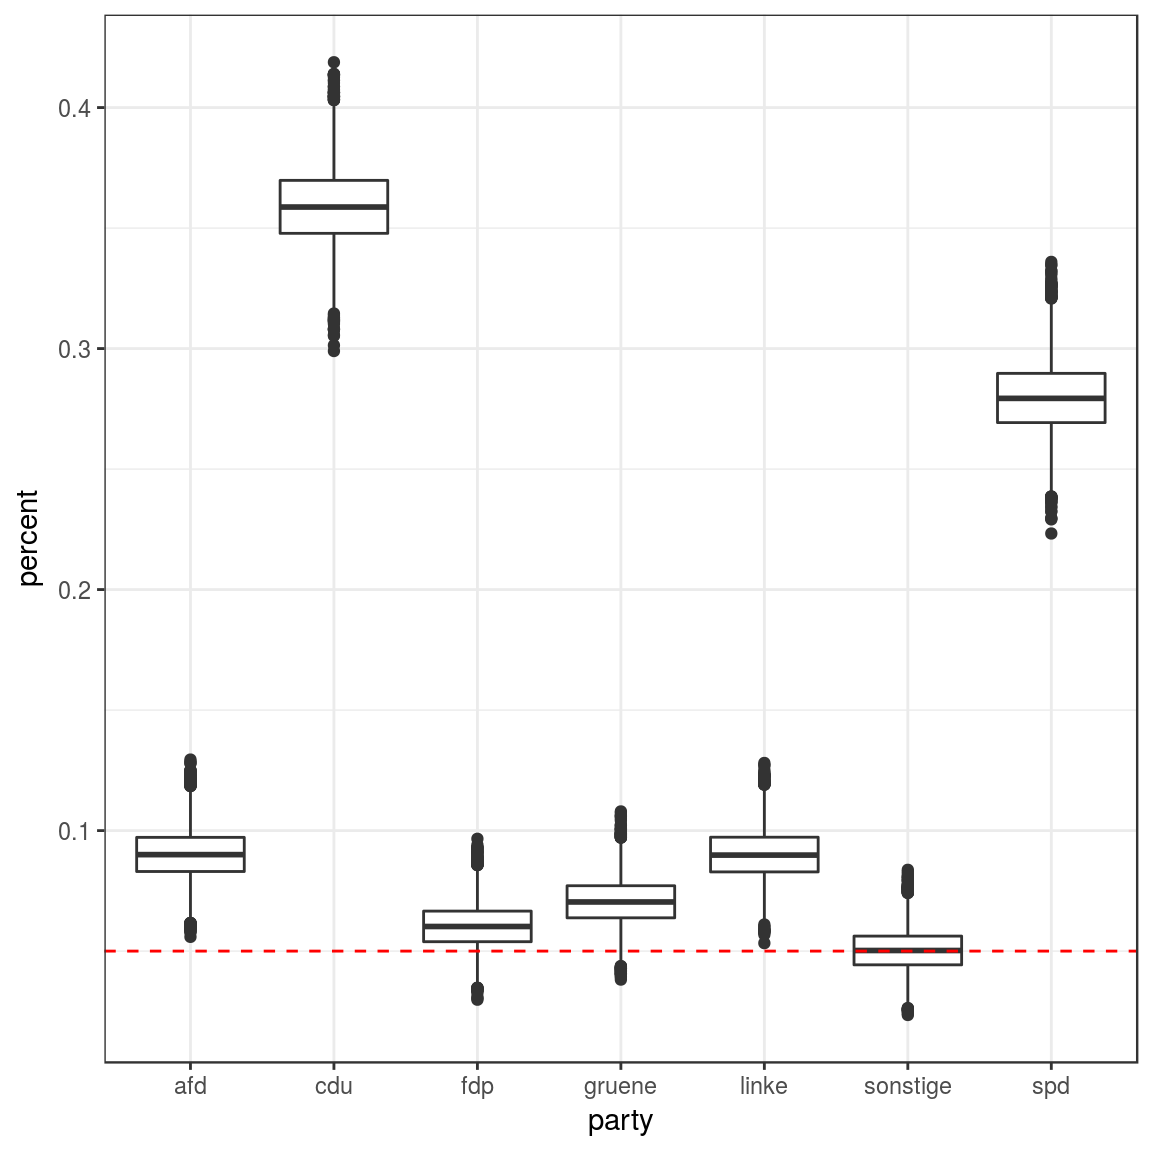
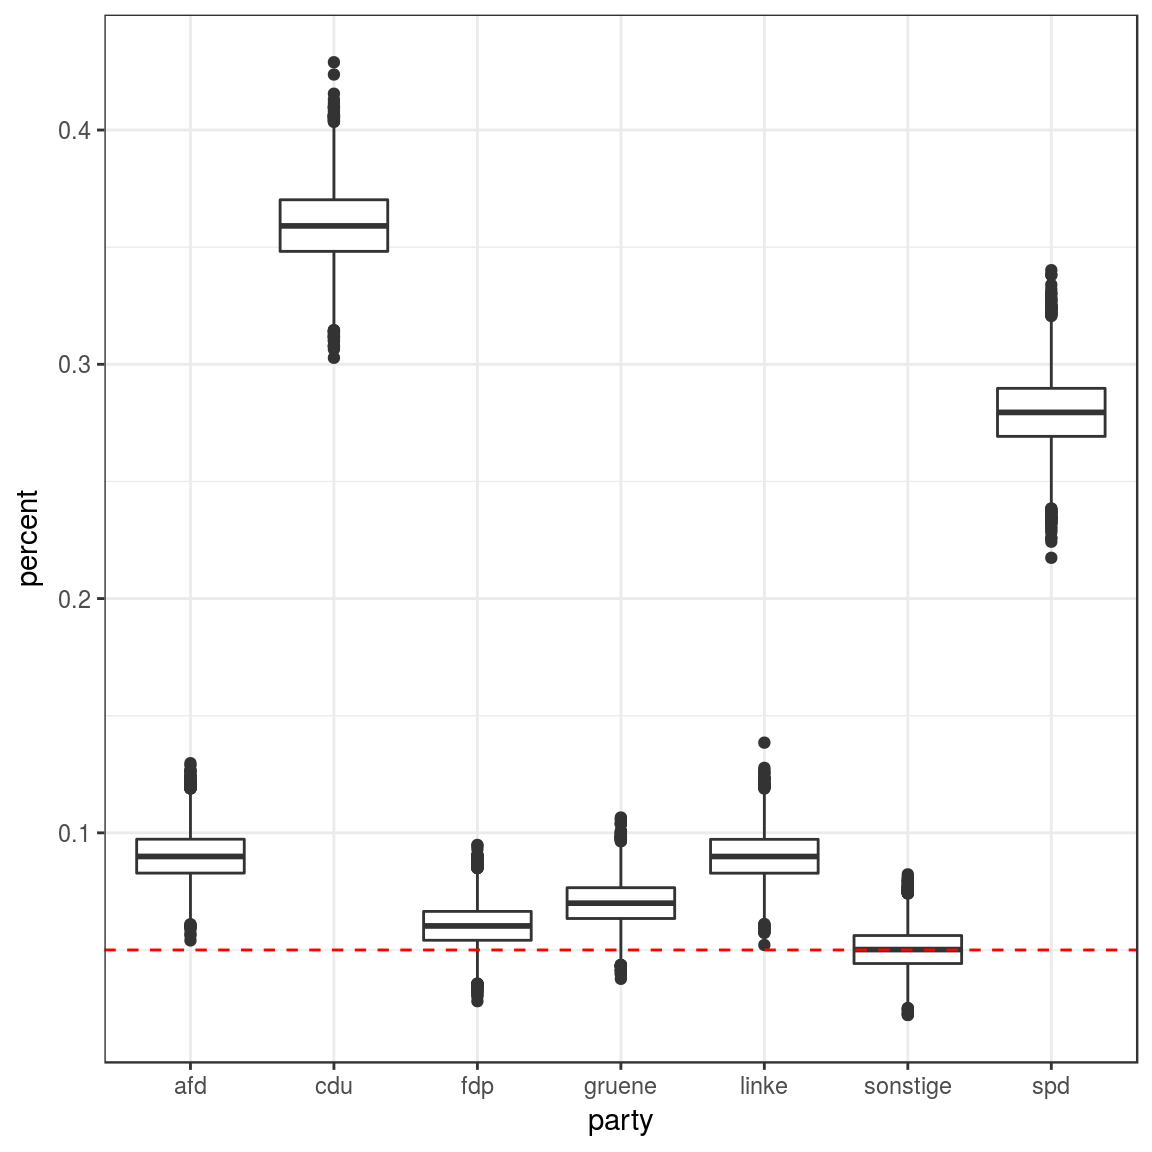
Last updates for pollyvote blog post

diff --git a/docs/articles/KOALA.html b/docs/articles/KOALA.html
@@ -84,7 +84,7 @@
     
     
 <div class="contents">
-<p>Kurz vor der Bundestagswahl am 24. September 2017 steigt wieder das Interesse an Wahlberichterstattung. Einen Beitrag hierzu leisten diverse Meinungsforschungsinstitute, die in regelmäßigen Abständen Umfragewerte zur sogenannten <em>Sonntagsfrage</em> veröffentlicht:</p>
+<p>Kurz vor der Bundestagswahl am 24. September 2017 steigt wieder das Interesse an Wahlberichterstattung. Einen Beitrag hierzu leisten diverse Meinungsforschungsinstitute, die in regelmäßigen Abständen Umfragewerte zur sogenannten <em>Sonntagsfrage</em> veröffentlichen:</p>
 <blockquote>
 <p>“Welche Partei würden sie wählen, wenn Sonntag Bundestagswahl wäre?”</p>
 </blockquote>
@@ -97,7 +97,7 @@
 <p>Schaffen es die kleinen Parteien in den Bundestag?</p>
 </blockquote>
 <p>zu beantworten.</p>
-<p>Meist werden zur Beantwortung dieser Fragen einfach die erzielten Anteile betrachtet oder für Koalitionen von Interesse aufaddiert. Diese einfache Betrachtung ist allerdings oft <strong>irreführend und uninformativ</strong>, wie weiter unten gezeigt wird.</p>
+<p>Oft werden zur Beantwortung dieser Fragen einfach die erzielten Anteile betrachtet oder für Koalitionen von Interesse aufaddiert. Diese einfache Betrachtung ist allerdings oft <strong>irreführend und uninformativ</strong>, wie weiter unten gezeigt wird.</p>
 <p>In Zusammenarbeit mit <a href="http://www.zeit.de/serie/wahlistik">ZEIT ONLINE</a> hat das <a href="http://www.stablab.stat.uni-muenchen.de/index.html">Statistische Beratungslabor (StaBLab) der LMU</a> deshalb 2013 ein Verfahren entwickelt, dass eine <strong>genauere und aussagekräftigere Interpretation von Umfragen</strong> erlaubt.</p>
 <p>Zur Bundestagswahl 2017 laufen unsere Analysen unter dem Namen <a href="http://koala.stat.uni-muenchen.de/">#koala17</a>:</p>
 <ul>
@@ -206,7 +206,7 @@ Sonstige
 <p><strong>Die Stichprobenunsicherheit wird nicht berücksichtigt</strong>:</p>
 <ul>
 <li><p>Selbst wenn eine Umfrage repräsentativ ist, bedeutet es nicht, dass es bei der Wahl nicht zu Abweichungen vom Umfragewert kommen kann.</p></li>
-<li><p>Dies kann für potentielle Koalitionen eine Große Rolle spielen, insbesondere wenn eine oder mehrere Parteien nahe an der 5% Hürde liegen.</p></li>
+<li><p>Dies kann für potentielle Koalitionen eine große Rolle spielen, insbesondere wenn eine oder mehrere Parteien nahe an der 5% Hürde liegen.</p></li>
 </ul>
 </li>
 <li>
@@ -318,8 +318,7 @@ Die Linke
 <a href="#wie-geht-koala-mit-diesen-problemen-um" class="anchor"></a>Wie geht KOALA mit diesen Problemen um?</h2>
 <p>Unser Ansatz beginnt damit, dass wir die Stichprobenunsicherheit sowie die Unterschiede zwischen den Umfragen verschiedener Institute anerkennen. Neben den Umfragen der einzelnen Institute betrachten wir deshalb auch eine sog. <em>gepoolte</em> Stichprobe, die eine Art Durchschnitt über die Umfragen aller Institute innerhalb eines Fensters von 14 Tagen darstellt. Dadurch wird der Einfluss potentieller Ausreißer gemildert und die Stichprobenunsicherheit reduziert.</p>
 <p>Basierend auf dieser <em>gepoolten</em> Umfrage, generieren wir dann viele verschiedene Wahlausgänge, die manchmal mehr, manchmal weniger von den Umfragewerten abweichen. In jedem dieser hypothetischen Wahlausgänge führen wir die Umverteilung der Anteile durch und berechnen für jede Partei die Anzahl Sitze nach der Umverteilung. Gegeben die Sitze kann dann für eine Koalition von Interesse berechnet werden, ob genügend Sitze für eine Mehrheit zu Stande gekommen sind.</p>
-<p>Wiederholt man das Ganze mehrere Tausend mal lässt sich die Wahrscheinlichkeit berechnen, dass für die Koalition von Interesse eine rechnerische Mehrheit zu Stande kommen würde.</p>
-<p>Im vorherigen Beispiel ergeben sich z.B. folgende Wahrscheinlichkeiten:</p>
+<p>Wiederholt man das Ganze mehrere Tausend mal lässt sich die Wahrscheinlichkeit berechnen, dass für die Koalition von Interesse eine rechnerische Mehrheit zu Stande kommen würde. Im vorherigen Beispiel ergeben sich z.B. folgende Wahrscheinlichkeiten:</p>
 <?xml version="1.0" encoding="UTF-8"?><table class="table" style="width: auto !important; margin-left: auto; margin-right: auto;">
 <caption>
 Auf der Forsa Umfrage basierende Koalitionswahrscheinlichkeiten laut unserer KOALA
@@ -338,7 +337,7 @@ Wahrscheinlichkeit
 Union
 </td>
 <td style="text-align:right;">
-0.33 %
+0.37 %
 </td>
 </tr>
 <tr>
@@ -346,7 +345,7 @@ Union
 Union - FDP
 </td>
 <td style="text-align:right;">
-28.05 %
+26.62 %
 </td>
 </tr>
 <tr>
@@ -354,7 +353,7 @@ Union - FDP
 Union - Grüne
 </td>
 <td style="text-align:right;">
-99.64 %
+99.61 %
 </td>
 </tr>
 <tr>
@@ -362,7 +361,7 @@ Union - Grüne
 Union - FDP - Grüne
 </td>
 <td style="text-align:right;">
-0.03 %
+0.02 %
 </td>
 </tr>
 <tr>
@@ -386,7 +385,7 @@ SPD - Die Linke
 SPD - Die Linke - Grüne
 </td>
 <td style="text-align:right;">
-66.21 %
+67.82 %
 </td>
 </tr>
 </tbody>

diff --git a/docs/articles/workflow.html b/docs/articles/workflow.html
@@ -167,16 +167,16 @@ elong %&gt;%<span class="st"> </span><span class="kw"><a href="http://dplyr.tidy
 <pre><code>## # A tibble: 10 x 7
 ##          cdu       spd     gruene        fdp      linke        afd
 ##        &lt;dbl&gt;     &lt;dbl&gt;      &lt;dbl&gt;      &lt;dbl&gt;      &lt;dbl&gt;      &lt;dbl&gt;
-##  1 0.3736780 0.2369959 0.08881941 0.08391430 0.08584738 0.09054215
-##  2 0.3911421 0.2371631 0.07354582 0.08035398 0.09187578 0.08995627
-##  3 0.3785313 0.2445499 0.08610046 0.07830385 0.08516537 0.09252274
-##  4 0.3809440 0.2397577 0.08044386 0.08215249 0.08821944 0.08723402
-##  5 0.4123311 0.2235295 0.07308140 0.07936848 0.08435759 0.08898843
-##  6 0.3764411 0.2409650 0.08238301 0.07570523 0.08760757 0.08796280
-##  7 0.3715032 0.2384314 0.09577480 0.07024085 0.09227626 0.08289457
-##  8 0.3894865 0.2538157 0.08984050 0.07064370 0.07232416 0.08869069
-##  9 0.3885241 0.2341192 0.07209704 0.08089491 0.09967171 0.08737261
-## 10 0.3699350 0.2361351 0.08523837 0.07227037 0.08628887 0.10360627
+##  1 0.3710441 0.2426301 0.08781256 0.07993750 0.09832480 0.08567300
+##  2 0.3737148 0.2338842 0.09255663 0.07601512 0.09090155 0.08229920
+##  3 0.3960281 0.2241007 0.08056655 0.07221340 0.10518895 0.08069625
+##  4 0.3887592 0.2362954 0.07006575 0.08410975 0.10147967 0.09131755
+##  5 0.3835232 0.2405642 0.07826220 0.07545559 0.08848403 0.09649836
+##  6 0.3767770 0.2506742 0.08726095 0.08394848 0.08244972 0.07550426
+##  7 0.3951868 0.2323285 0.08142942 0.07793051 0.08095271 0.09205889
+##  8 0.3635211 0.2304735 0.09307734 0.07523916 0.11207615 0.07703091
+##  9 0.3783377 0.2541287 0.07937786 0.06719722 0.07933578 0.08991234
+## 10 0.3951601 0.2399997 0.07082943 0.08294486 0.08179488 0.09164288
 ## # ... with 1 more variables: sonstige &lt;dbl&gt;</code></pre>
 </div>
 <div id="calculate-seat-distribution" class="section level2">
@@ -200,16 +200,16 @@ elong %&gt;%<span class="st"> </span><span class="kw"><a href="http://dplyr.tidy
 <pre><code>## # A tibble: 60 x 3
 ##      sim  party seats
 ##    &lt;int&gt;  &lt;chr&gt; &lt;int&gt;
-##  1     1    cdu   233
-##  2     1    spd   148
-##  3     1 gruene    55
-##  4     1    fdp    52
-##  5     1  linke    54
-##  6     1    afd    56
-##  7     2    cdu   242
+##  1     1    cdu   230
+##  2     1    spd   150
+##  3     1 gruene    54
+##  4     1    fdp    50
+##  5     1  linke    61
+##  6     1    afd    53
+##  7     2    cdu   236
 ##  8     2    spd   147
-##  9     2 gruene    46
-## 10     2    fdp    50
+##  9     2 gruene    58
+## 10     2    fdp    48
 ## # ... with 50 more rows</code></pre>
 <p>In the above example, given the latest survey, CDU/CSU would have 225 seats in the first simulation, 223 seats in the second simulation, etc.</p>
 </div>
@@ -251,7 +251,7 @@ elong %&gt;%<span class="st"> </span><span class="kw"><a href="http://dplyr.tidy
 ##  2 FALSE   FALSE      FALSE           TRUE FALSE     FALSE      FALSE
 ##  3 FALSE   FALSE      FALSE           TRUE FALSE     FALSE      FALSE
 ##  4 FALSE   FALSE      FALSE           TRUE FALSE     FALSE      FALSE
-##  5 FALSE    TRUE       TRUE           TRUE FALSE     FALSE      FALSE
+##  5 FALSE   FALSE      FALSE           TRUE FALSE     FALSE      FALSE
 ##  6 FALSE   FALSE      FALSE           TRUE FALSE     FALSE      FALSE
 ##  7 FALSE   FALSE      FALSE           TRUE FALSE     FALSE      FALSE
 ##  8 FALSE   FALSE      FALSE           TRUE FALSE     FALSE      FALSE
@@ -282,9 +282,9 @@ elong %&gt;%<span class="st"> </span><span class="kw"><a href="http://dplyr.tidy
 ##          coalition probability
 ##              &lt;chr&gt;       &lt;dbl&gt;
 ## 1              cdu           0
-## 2          cdu_fdp          10
-## 3       cdu_gruene          10
-## 4   cdu_fdp_gruene          90
+## 2          cdu_fdp           0
+## 3       cdu_gruene           0
+## 4   cdu_fdp_gruene         100
 ## 5              spd           0
 ## 6        linke_spd           0
 ## 7       gruene_spd           0

diff --git a/docs/index.html b/docs/index.html
@@ -165,12 +165,12 @@ survey %&gt;%<span class="st"> </span><span class="kw"><a href="http://www.rdocu
 <pre><code>## # A tibble: 6 x 4
 ##    institute      datum        coalition probability
 ##        &lt;chr&gt;     &lt;date&gt;            &lt;chr&gt;       &lt;dbl&gt;
-## 1 allensbach 2017-07-18              cdu        0.00
-## 2 allensbach 2017-07-18          cdu_fdp       54.89
-## 3 allensbach 2017-07-18   cdu_fdp_gruene       45.11
-## 4 allensbach 2017-07-18              spd        0.00
-## 5 allensbach 2017-07-18        linke_spd        0.00
-## 6 allensbach 2017-07-18 gruene_linke_spd        0.00</code></pre>
+## 1 allensbach 2017-07-18              cdu         0.0
+## 2 allensbach 2017-07-18          cdu_fdp        53.5
+## 3 allensbach 2017-07-18   cdu_fdp_gruene        46.5
+## 4 allensbach 2017-07-18              spd         0.0
+## 5 allensbach 2017-07-18        linke_spd         0.0
+## 6 allensbach 2017-07-18 gruene_linke_spd         0.0</code></pre>
 </div>
 </div>
 </div>

diff --git a/docs/articles/diagnostic.html b/docs/articles/diagnostic.html
@@ -123,10 +123,10 @@ draws_long &lt;-<span class="st"> </span><span class="kw"><a href="http://www.rd
 ##      &lt;chr&gt;     &lt;dbl&gt;
 ## 1      afd    1.0000
 ## 2      cdu    1.0000
-## 3      fdp    0.8654
-## 4   gruene    0.9858
+## 3      fdp    0.8704
+## 4   gruene    0.9856
 ## 5    linke    1.0000
-## 6 sonstige    0.5101
+## 6 sonstige    0.5068
 ## 7      spd    1.0000</code></pre>
 </div>
   </div>

diff --git a/README.md b/README.md
@@ -103,8 +103,8 @@ survey %>% get_probabilities(nsim=1e4) %>% unnest()
     ##    institute      datum        coalition probability
     ##        <chr>     <date>            <chr>       <dbl>
     ## 1 allensbach 2017-07-18              cdu        0.00
-    ## 2 allensbach 2017-07-18          cdu_fdp       55.38
-    ## 3 allensbach 2017-07-18   cdu_fdp_gruene       44.62
+    ## 2 allensbach 2017-07-18          cdu_fdp       53.79
+    ## 3 allensbach 2017-07-18   cdu_fdp_gruene       46.21
     ## 4 allensbach 2017-07-18              spd        0.00
     ## 5 allensbach 2017-07-18        linke_spd        0.00
     ## 6 allensbach 2017-07-18 gruene_linke_spd        0.00
